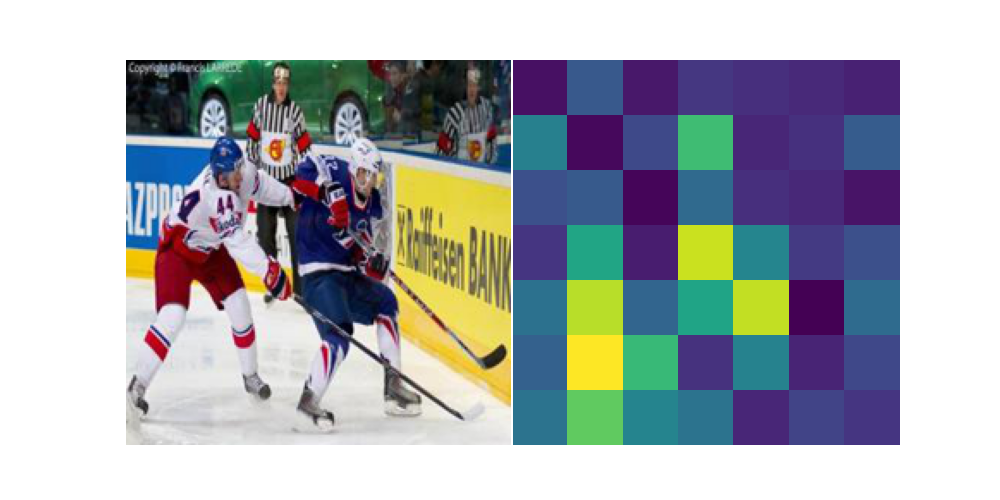
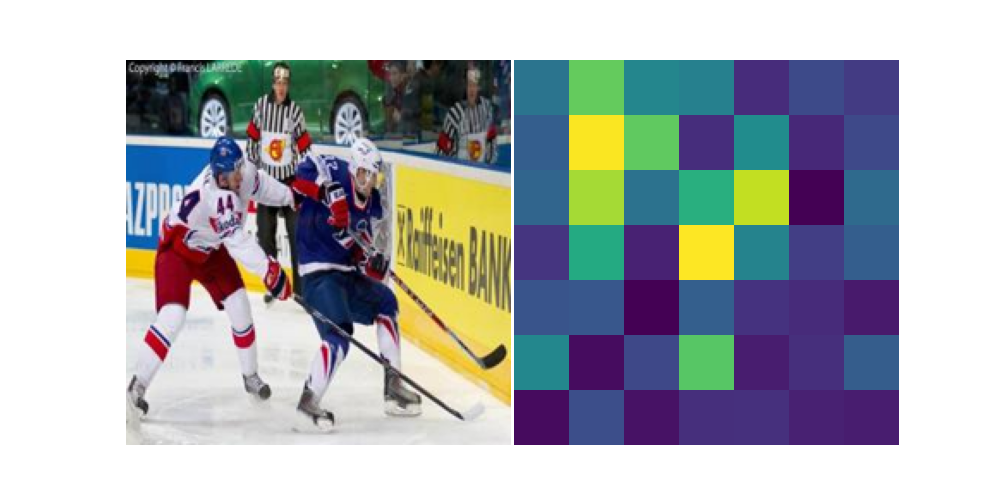
fix bug

Changed region(s): [[0.496, 0.12, 0.899, 0.9]]

diff --git a/visualize_attention.py b/visualize_attention.py
@@ -42,6 +42,6 @@ ax.axis("off")
 ax.imshow(transform_image(image))
 ax = fig.add_subplot(1, 2, 2)
 ax.axis("off")
-ax.pcolor(image_attention[0].reshape(7, 7))
+ax.imshow(image_attention[0].reshape(7, 7))
 fig.subplots_adjust(hspace=0, wspace=0)
 fig.savefig(f"{args.dataset}_{args.index}")
